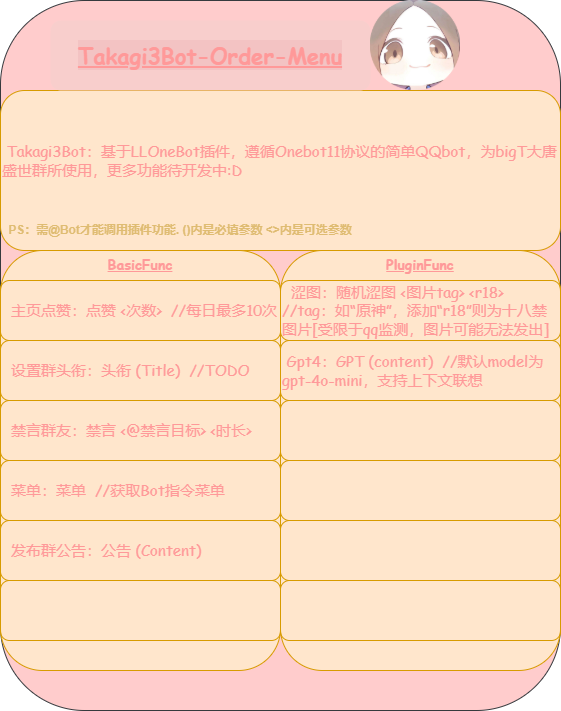
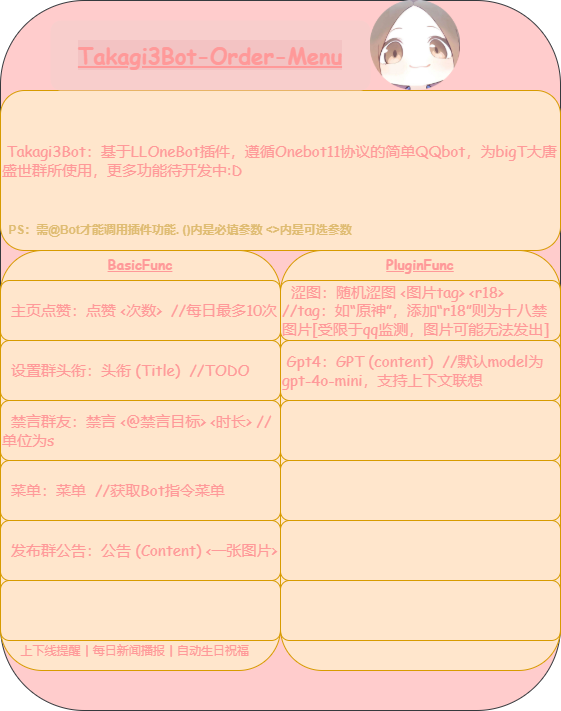
update: orderMenu png.

diff --git a/src/main/java/com/bot/takagi3/boot/BotOnlineNotify.java b/src/main/java/com/bot/takagi3/boot/BotOnlineNotify.java
@@ -27,18 +27,24 @@ public class BotOnlineNotify extends CoreEvent
     @Override
     public void online(Bot bot)
     {
-        String onlineMsg = String.format("%s Takagi3-Bot:%s now is online.", CommonUtil.getFormattedLocalTime(), bot.getSelfId());
-        log.info(onlineMsg);
-        botProperties.getServeGroups().forEach(g -> bot.sendGroupMsg(g, onlineMsg, false));
+        if(botProperties.getOnlineNotify())
+        {
+            String onlineMsg = String.format("%s Takagi3-Bot now is online.", CommonUtil.getFormattedLocalTime());
+            log.info(onlineMsg);
+            botProperties.getServeGroups().forEach(g -> bot.sendGroupMsg(g, onlineMsg, false));
+        }
     }
 
     @Override
     public void offline(long account)
     {
-        String offlineMsg = String.format("%s Takagi3-Bot:%s now is offline.", CommonUtil.getFormattedLocalTime(), account);
-        log.info(offlineMsg);
+        if(botProperties.getOfflineNotify())
+        {
+            String offlineMsg = String.format("%s Takagi3-Bot now is offline.", CommonUtil.getFormattedLocalTime());
+            log.info(offlineMsg);
 
-        botProperties.getServeGroups().forEach(g -> sendOfflineMsg(offlineMsg, g));
+            botProperties.getServeGroups().forEach(g -> sendOfflineMsg(offlineMsg, g));
+        }
     }
 
     @Override

diff --git a/src/main/java/com/bot/takagi3/plugin/BasicFuncPlugin.java b/src/main/java/com/bot/takagi3/plugin/BasicFuncPlugin.java
@@ -20,14 +20,10 @@ import com.mikuac.shiro.dto.action.common.ActionRaw;
 import com.mikuac.shiro.dto.action.common.MsgId;
 import com.mikuac.shiro.dto.event.message.GroupMessageEvent;
 import com.mikuac.shiro.enums.AtEnum;
-import com.mikuac.shiro.enums.MsgTypeEnum;
-import com.mikuac.shiro.model.ArrayMsg;
 import lombok.extern.slf4j.Slf4j;
 import org.springframework.beans.factory.annotation.Autowired;
 import org.springframework.stereotype.Component;
-import org.springframework.web.bind.annotation.RequestParam;
 
-import java.util.ArrayList;
 import java.util.HashMap;
 import java.util.List;
 import java.util.Map;

diff --git a/src/main/java/com/bot/takagi3/properties/BotProperties.java b/src/main/java/com/bot/takagi3/properties/BotProperties.java
@@ -11,6 +11,10 @@ import java.util.List;
 @Data
 public class BotProperties
 {
+    Boolean onlineNotify;
+
+    Boolean offlineNotify;
+
     String postUrl;
 
     List<Long> serveGroups;
